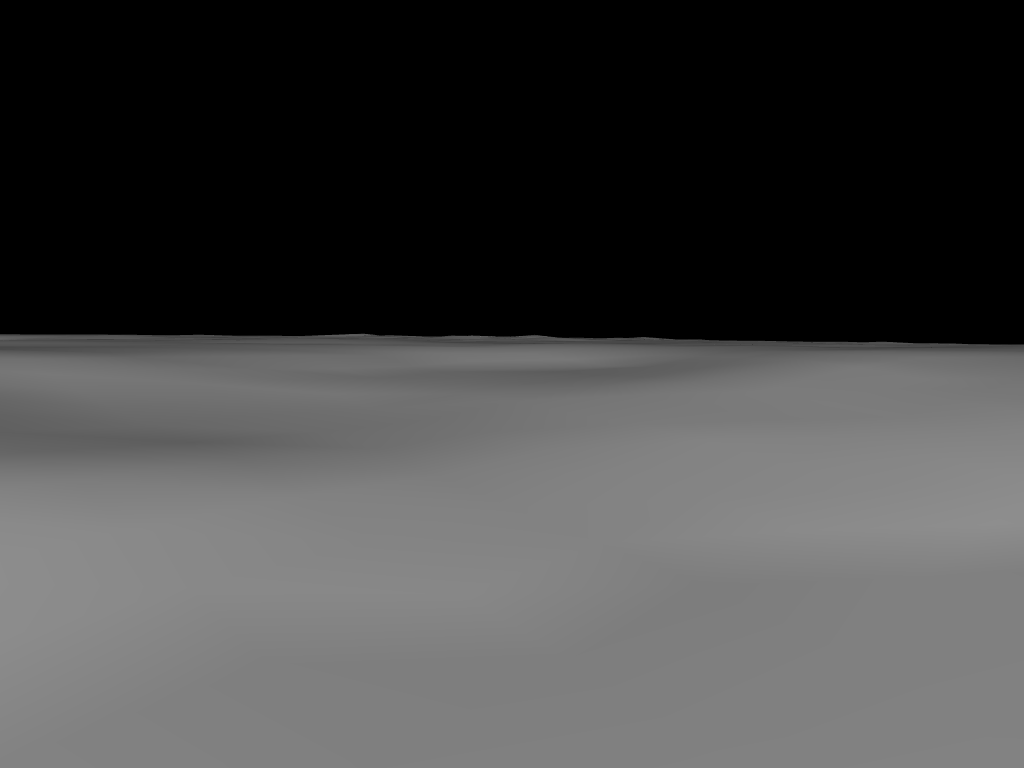
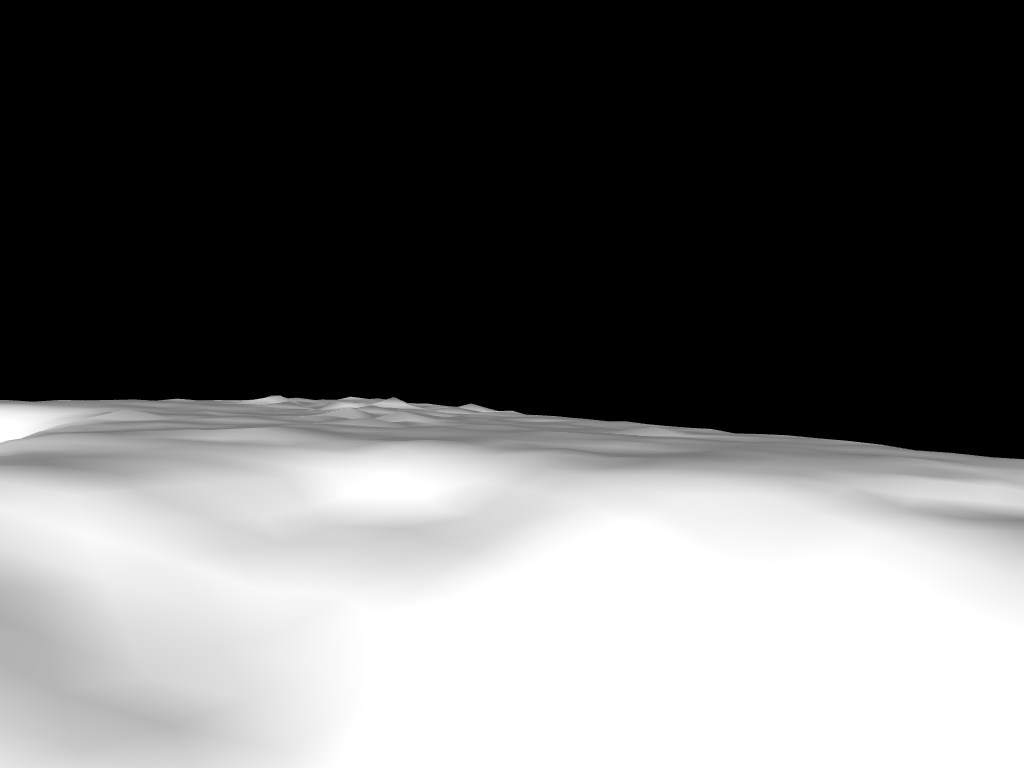
removed normalization

diff --git a/generate_horizon_images.py b/generate_horizon_images.py
@@ -17,10 +17,13 @@ def generate_horizon_views(mesh, num_views=8):
     center = bbox.get_center()
     bbox_size = bbox.get_max_bound() - bbox.get_min_bound()
     
-    # Calculate observer parameters
-    ground_height = bbox.get_min_bound()[2] + 5.0
-    observer_radius = 5.0
-    look_distance = max(bbox_size[0], bbox_size[1]) * 0.6
+    # Calculate observer parameters based on real-world meters
+    ground_height = bbox.get_min_bound()[2] + 2.0  # 2 meters above ground
+    observer_radius = 50.0  # 50 meter radius from center
+    look_distance = 1000.0  # Look 1km into the distance
+    
+    # Adjust vertical look angle for more natural perspective
+    look_height = ground_height + 1  # Average human eye height (1.7m)
     
     print(f"Observer setup:")
     print(f"Ground height: {ground_height:.2f}")
@@ -45,7 +48,7 @@ def generate_horizon_views(mesh, num_views=8):
         look_target = np.array([
             center[0] + look_distance * np.cos(angle),
             center[1] + look_distance * np.sin(angle),
-            ground_height + look_distance * 0.05
+            look_height
         ])
         
         print(f"\nProcessing view {i+1}/{num_views}")
@@ -85,22 +88,21 @@ def draw_agent_on_dem(dem_data, transform, observer_position, look_target, filen
     try:
         fig, ax = plt.subplots(figsize=(12, 8))
         
-        # Plot the DEM with proper normalization
-        dem_normalized = (dem_data - dem_data.min()) / (dem_data.max() - dem_data.min())
+        # Plot the DEM without normalization
         extent = [
             transform[2], 
             transform[2] + transform[0] * dem_data.shape[1],
             transform[5] + transform[4] * dem_data.shape[0], 
             transform[5]
         ]
-        ax.imshow(dem_normalized, cmap='gray', extent=extent)
+        ax.imshow(dem_data, cmap='gray', extent=extent)
         
         # Convert normalized coordinates back to real-world coordinates
-        real_observer_x = transform[2] + (observer_position[0] / 1000.0) * transform[0] * dem_data.shape[1]
-        real_observer_y = transform[5] + (1 - observer_position[1] / 1000.0) * transform[4] * dem_data.shape[0]
+        real_observer_x = observer_position[0]
+        real_observer_y = observer_position[1]
         
-        real_target_x = transform[2] + (look_target[0] / 1000.0) * transform[0] * dem_data.shape[1]
-        real_target_y = transform[5] + (1 - look_target[1] / 1000.0) * transform[4] * dem_data.shape[0]
+        real_target_x = look_target[0]
+        real_target_y = look_target[1]
         
         # Debug prints
         print(f"Normalized observer position: ({observer_position[0]:.2f}, {observer_position[1]:.2f})")

diff --git a/render_scene.py b/render_scene.py
@@ -21,16 +21,16 @@ def render_scene(mesh, rover_position, camera_target, image_width=1024, image_he
         # Create pyrender mesh
         mesh = pyrender.Mesh.from_trimesh(tri_mesh)
         
-        # Create scene
-        scene = pyrender.Scene(bg_color=[0, 0, 0])
+        # Create scene with ambient light
+        scene = pyrender.Scene(bg_color=[0, 0, 0], ambient_light=[0.2, 0.2, 0.2])
         scene.add(mesh)
         
         # Calculate camera parameters
         camera = pyrender.PerspectiveCamera(
-            yfov=np.pi/4.0,  # Reduced FOV for less distortion
+            yfov=np.pi/3.0,  # Wider FOV (60 degrees)
             aspectRatio=float(image_width)/float(image_height),
-            znear=0.1,  # Increased near plane to avoid clipping
-            zfar=1000.0  # Increased far plane for better horizon view
+            znear=1.0,  # Adjusted for real-world scale
+            zfar=10000.0  # Increased for real-world distances
         )
         
         # Set up camera pose
@@ -50,12 +50,15 @@ def render_scene(mesh, rover_position, camera_target, image_width=1024, image_he
         
         scene.add(camera, pose=pose)
         
-        # Add stronger directional light
-        light = pyrender.DirectionalLight(
-            color=[1.0, 1.0, 1.0],
-            intensity=5.0  # Increased intensity for brighter illumination
-        )
-        scene.add(light, pose=pose)
+        # Add multiple lights for better illumination
+        # Main directional light (sun)
+        direct_l = pyrender.DirectionalLight(color=[1.0, 1.0, 1.0], intensity=10.0)
+        scene.add(direct_l, pose=pose)
+        
+        # Additional directional light from above
+        light_pose = np.eye(4)
+        light_pose[:3, 3] = rover_position + np.array([0, 0, 1000])  # Light from above
+        scene.add(direct_l, pose=light_pose)
         
         # Create renderer
         r = pyrender.OffscreenRenderer(image_width, image_height)

diff --git a/dem_to_mesh.py b/dem_to_mesh.py
@@ -36,24 +36,13 @@ def create_mesh_from_dem(dem_data, transform, downsample_factor=4):
     y = y_coords.flatten()
     z = dem_data.flatten()
     
-    print(f"Coordinate ranges before normalization:")
+    print(f"Coordinate ranges (meters):")
     print(f"X: {np.min(x):.2f} to {np.max(x):.2f}")
     print(f"Y: {np.min(y):.2f} to {np.max(y):.2f}")
     print(f"Z: {np.min(z):.2f} to {np.max(z):.2f}")
     
-    # Normalize coordinates to prevent numerical issues
-    x = (x - np.min(x)) / (np.max(x) - np.min(x)) * 1000
-    y = (y - np.min(y)) / (np.max(y) - np.min(y)) * 1000
-    z = (z - np.min(z)) / (np.max(z) - np.min(z)) * 100
-    
-    print(f"Coordinate ranges after normalization:")
-    print(f"X: {np.min(x):.2f} to {np.max(x):.2f}")
-    print(f"Y: {np.min(y):.2f} to {np.max(y):.2f}")
-    print(f"Z: {np.min(z):.2f} to {np.max(z):.2f}")
-    
-    print("Creating vertices...")
+    # Use coordinates directly without normalization
     vertices = np.column_stack((x, y, z))
-    print(f"Number of vertices: {len(vertices)}")
     
     print("Creating faces...")
     faces = []
